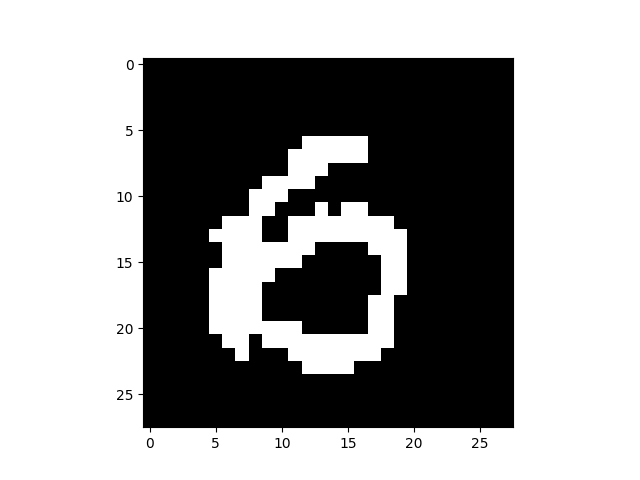
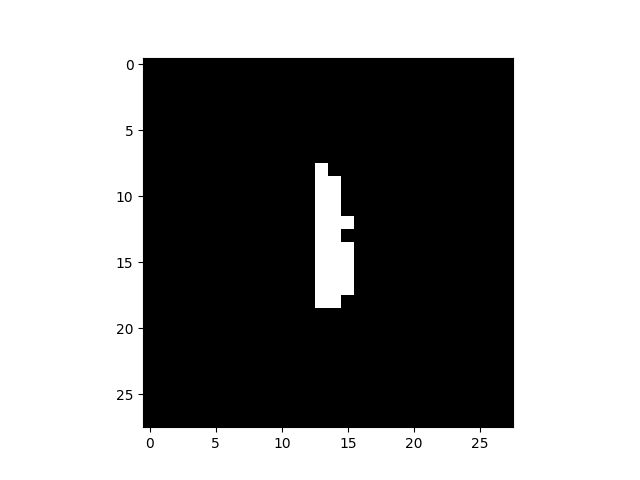
It works!

Changed region(s): [[0.3125, 0.2812, 0.6562, 0.7812]]

diff --git a/Flask/front_end.py b/Flask/front_end.py
@@ -2,8 +2,52 @@ from flask import Flask, request, redirect, url_for, render_template_string, ses
 from markupsafe import escape
 from werkzeug.utils import secure_filename
 import os
+import sys
+sys.path.insert(0, os.path.dirname(os.path.dirname(__file__)))
+import torch
+import torchvision
+import torchvision.transforms.v2 as v2
+import torchvision.io as io
+import matplotlib.pyplot as plt
+from torchvision.transforms.v2 import InterpolationMode
+import Network.Network_definition
 
-app = Flask(__name__)
+def transform_image():
+    image_path = "/workspaces/number_recognition_program/feed_image/image_to_scan/scan.jpg"
+    if not os.path.exists(image_path):
+        return "No image uploaded. Please upload a JPG file first."
+    
+    image = io.read_image(image_path)
+    original_size = (216, 216)
+    pixel_size = 28
+
+    gray = v2.Grayscale(1)
+    try:
+        image = gray(image)
+    except:
+        pass
+    transform = v2.Compose([
+        v2.Resize(pixel_size, interpolation=InterpolationMode.NEAREST),
+        v2.Lambda(lambda x: torch.where(x > 0, 1.0, 0.0)),
+        v2.RandomInvert(1),
+    ])
+    image = transform(image)
+    plt.imshow(image.permute(1, 2, 0).detach().cpu(), cmap='gray')
+    plt.savefig('compressed_image.png')
+    return read_image(image)
+
+def read_image(image):
+    model = torch.load('/workspaces/number_recognition_program/Saved_Model', weights_only=False)
+    model.eval()
+    image = image.float()
+    input = image.unsqueeze(0)
+    with torch.no_grad():
+        prediction = model(input)
+    predicted_class = prediction.argmax(dim=1).item()
+    return predicted_class
+
+# from feed_image.transform_image import transform_image
+
 base_style = """
 <style>
 body {
@@ -13,7 +57,6 @@ body {
     justify-content: center;
     align-items: center;
     height: 100vh;
-    enctype="multipart/form-data"
 }
 .card {
     background: white;
@@ -57,23 +100,47 @@ a {
 main_page = base_style + """
 <div class="card">
 <h2>Upload a photo</h2>
-<form method="POST" enctype="multipart/form-data">
+<form method="POST" enctype="multipart/form-data" action="{{ url_for('main') }}">
       <input type=file name=file>
       <input type=submit value=Upload>
 </form>
-<p class="error">{{ error }}</p>
+<form action="{{ url_for('run_my_code') }}" method="post">
+    <button type="submit">Execute Code</button>
+</form>
+<p>{{output}}<p>
 </div> """
 
 UPLOAD_FOLDER = '/workspaces/number_recognition_program/feed_image/image_to_scan'
 ALLOWED_EXTENSIONS = {'jpg'}
 
+def allowed_file(filename):
+    return '.' in filename and filename.rsplit('.', 1)[1].lower() in ALLOWED_EXTENSIONS
+
 app = Flask(__name__)
 app.config['UPLOAD_FOLDER'] = UPLOAD_FOLDER
 
 @app.route("/", methods=["GET", "POST"])
-def login():
+def main():
+    output = "Upload a JPG file to read"
     if request.method == "POST":
-        f = request.files['file']
-        f.save('/workspaces/number_recognition_program/feed_image/image_to_scan/scan.jpg')
+        if 'file' not in request.files:
+            output = "No file part"
+        else:
+            f = request.files['file']
+            if f.filename == '':
+                output = "No selected file"
+            elif not allowed_file(f.filename):
+                output = "Invalid file type. Please upload a JPG file."
+            else:
+                save_path = '/workspaces/number_recognition_program/feed_image/image_to_scan/scan.jpg'
+                if os.path.exists(save_path):
+                    os.remove(save_path)
+                f.save(save_path)
+                output = "File Uploaded"
+    return render_template_string(main_page, output=output)
 
-    return render_template_string(main_page)
[email redacted]('/run-my-code', methods=['POST'])
+def run_my_code():
+    temp = str(transform_image())
+    print(temp)
+    return render_template_string(main_page, output=temp)

diff --git a/feed_image/transform_image.py b/feed_image/transform_image.py
@@ -4,19 +4,20 @@ import torchvision.transforms.v2 as v2
 import torchvision.io as io
 import matplotlib.pyplot as plt
 from torchvision.transforms.v2 import InterpolationMode
+from to_model import read_image
 
-image = io.read_image("/workspaces/number_recognition_program/feed_image/image_to_scan/scan.jpg")
-original_size = (216, 216)
-pixel_size = 28
+def transform_image():
+    image = io.read_image("/workspaces/number_recognition_program/feed_image/image_to_scan/scan.jpg")
+    original_size = (216, 216)
+    pixel_size = 28
 
-transform = v2.Compose([
-    v2.Resize(pixel_size, interpolation=InterpolationMode.NEAREST),
-    v2.Grayscale(1),
-    v2.Lambda(lambda x: torch.where(x > 0, 1.0, 0.0)),
-    v2.RandomInvert(1),
-])
-print(transform)
-image = transform(image)
-print(image.size)
-plt.imshow(image.permute(1, 2, 0).detach().cpu(), cmap='gray')
-plt.savefig('compressed image')
+    transform = v2.Compose([
+        v2.Resize(pixel_size, interpolation=InterpolationMode.NEAREST),
+        v2.Grayscale(1),
+        v2.Lambda(lambda x: torch.where(x > 0, 1.0, 0.0)),
+        v2.RandomInvert(1),
+    ])
+    image = transform(image)
+    plt.imshow(image.permute(1, 2, 0).detach().cpu(), cmap='gray')
+    plt.savefig('compressed image')
+    return read_image(image)

diff --git a/feed_image/to_model.py b/feed_image/to_model.py
@@ -1,16 +1,16 @@
 import torch
 import torchvision
 import torchvision.transforms.v2 as v2
-from feed_image.transform_image import image
 
-print(image)
-print(image.shape)
-model = torch.load('/workspaces/number_recognition_program/Saved_Model', weights_only=False)
-model.eval()
-print(model)
-image = image.float()
-input = image.unsqueeze(0)
-with torch.no_grad():
-    prediction = model(input)
-predicted_class = prediction.argmax(dim=1).item()
-print(predicted_class)
+def read_image(image):
+    print(image)
+    print(image.shape)
+    model = torch.load('/workspaces/number_recognition_program/Saved_Model', weights_only=False)
+    model.eval()
+    print(model)
+    image = image.float()
+    input = image.unsqueeze(0)
+    with torch.no_grad():
+        prediction = model(input)
+    predicted_class = prediction.argmax(dim=1).item()
+    return predicted_class

diff --git a/Tests/test.py b/Tests/test.py
@@ -1,0 +1,23 @@
+import pytest
+
+def test_python():
+    assert 1 == 1
+    assert 0 == 0
+    assert -1 == -1
+    assert 1 + 1 == 2
+    assert 2 + 2 == 4
+    assert 4 + 4 == 8
+    assert -1 + -1 == -2
+    assert 2 ** 2 == 4
+    assert 2 ** 3 == 8
+    assert 2 ** 4 == 16
+    assert 2 ** 5 == 32
+    assert 2 ** 6 == 64
+    assert 2 ** 7 == 128
+    assert 2/2 == 1
+    assert -4/4 == -1
+    assert 8/8 == 1
+    assert -16/16 == -1
+    assert 32/32 == 1
+    assert -64/64 == -1
+    assert 128/128 == 1